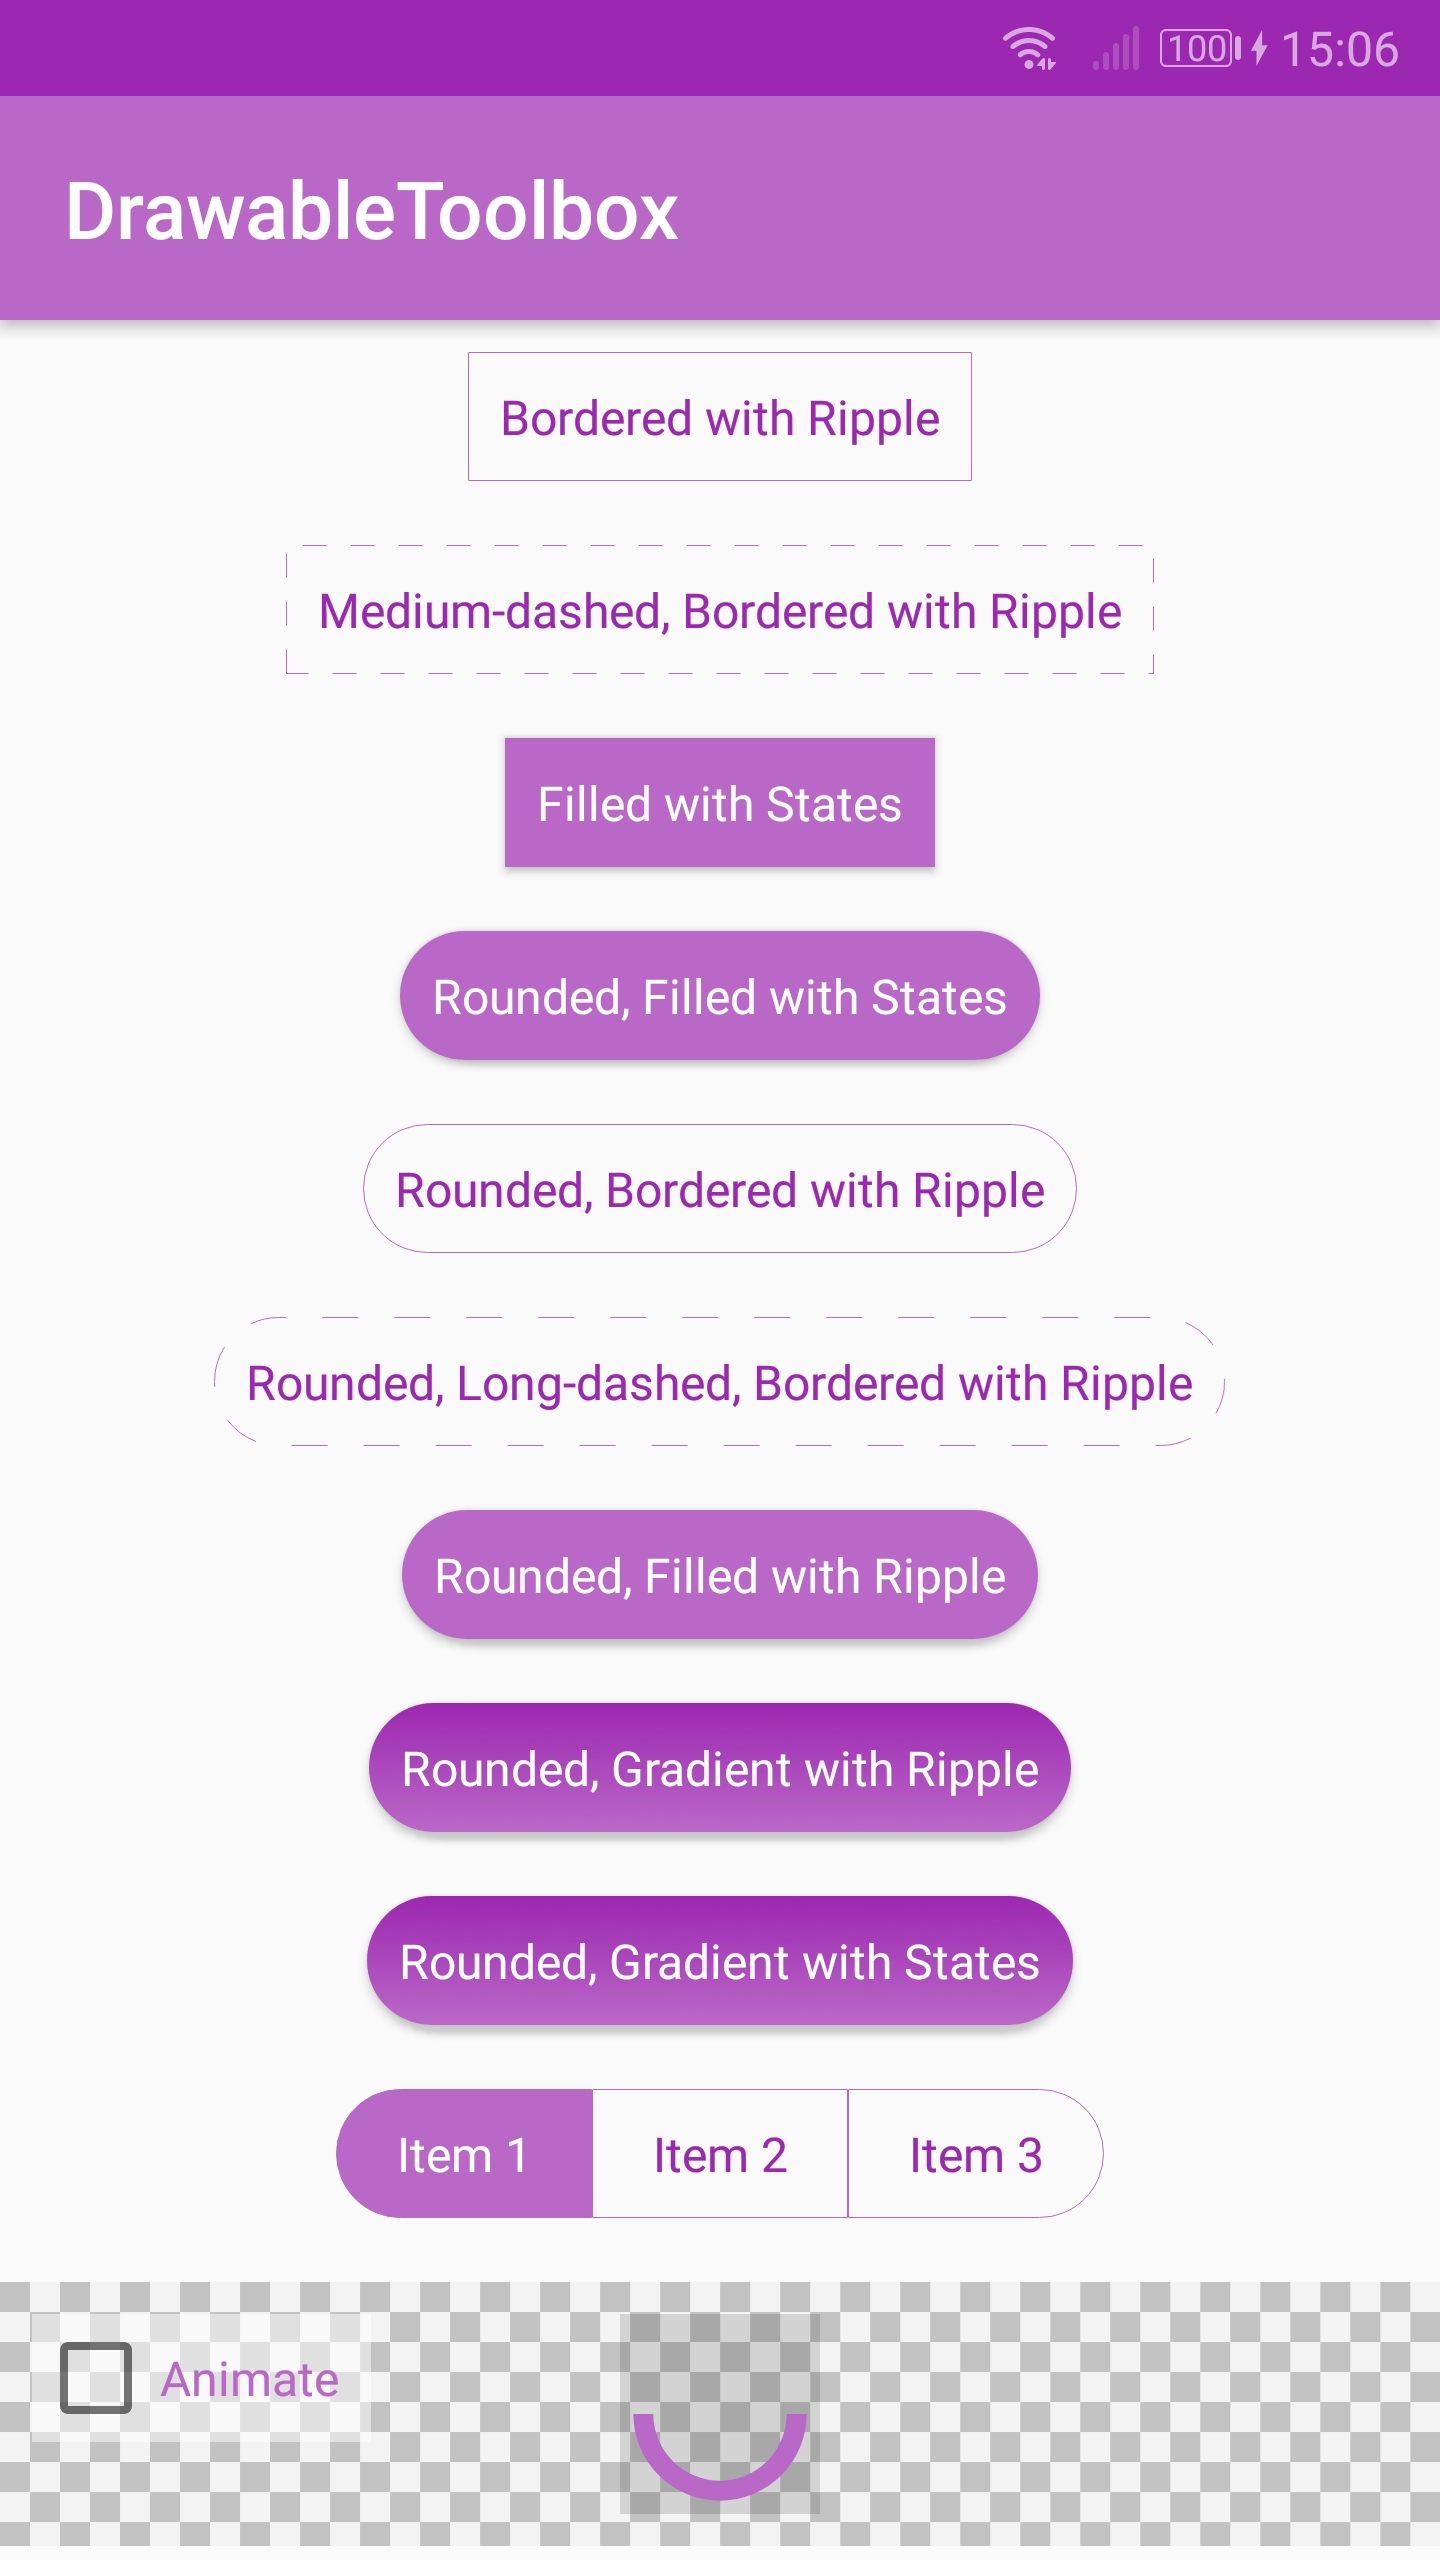
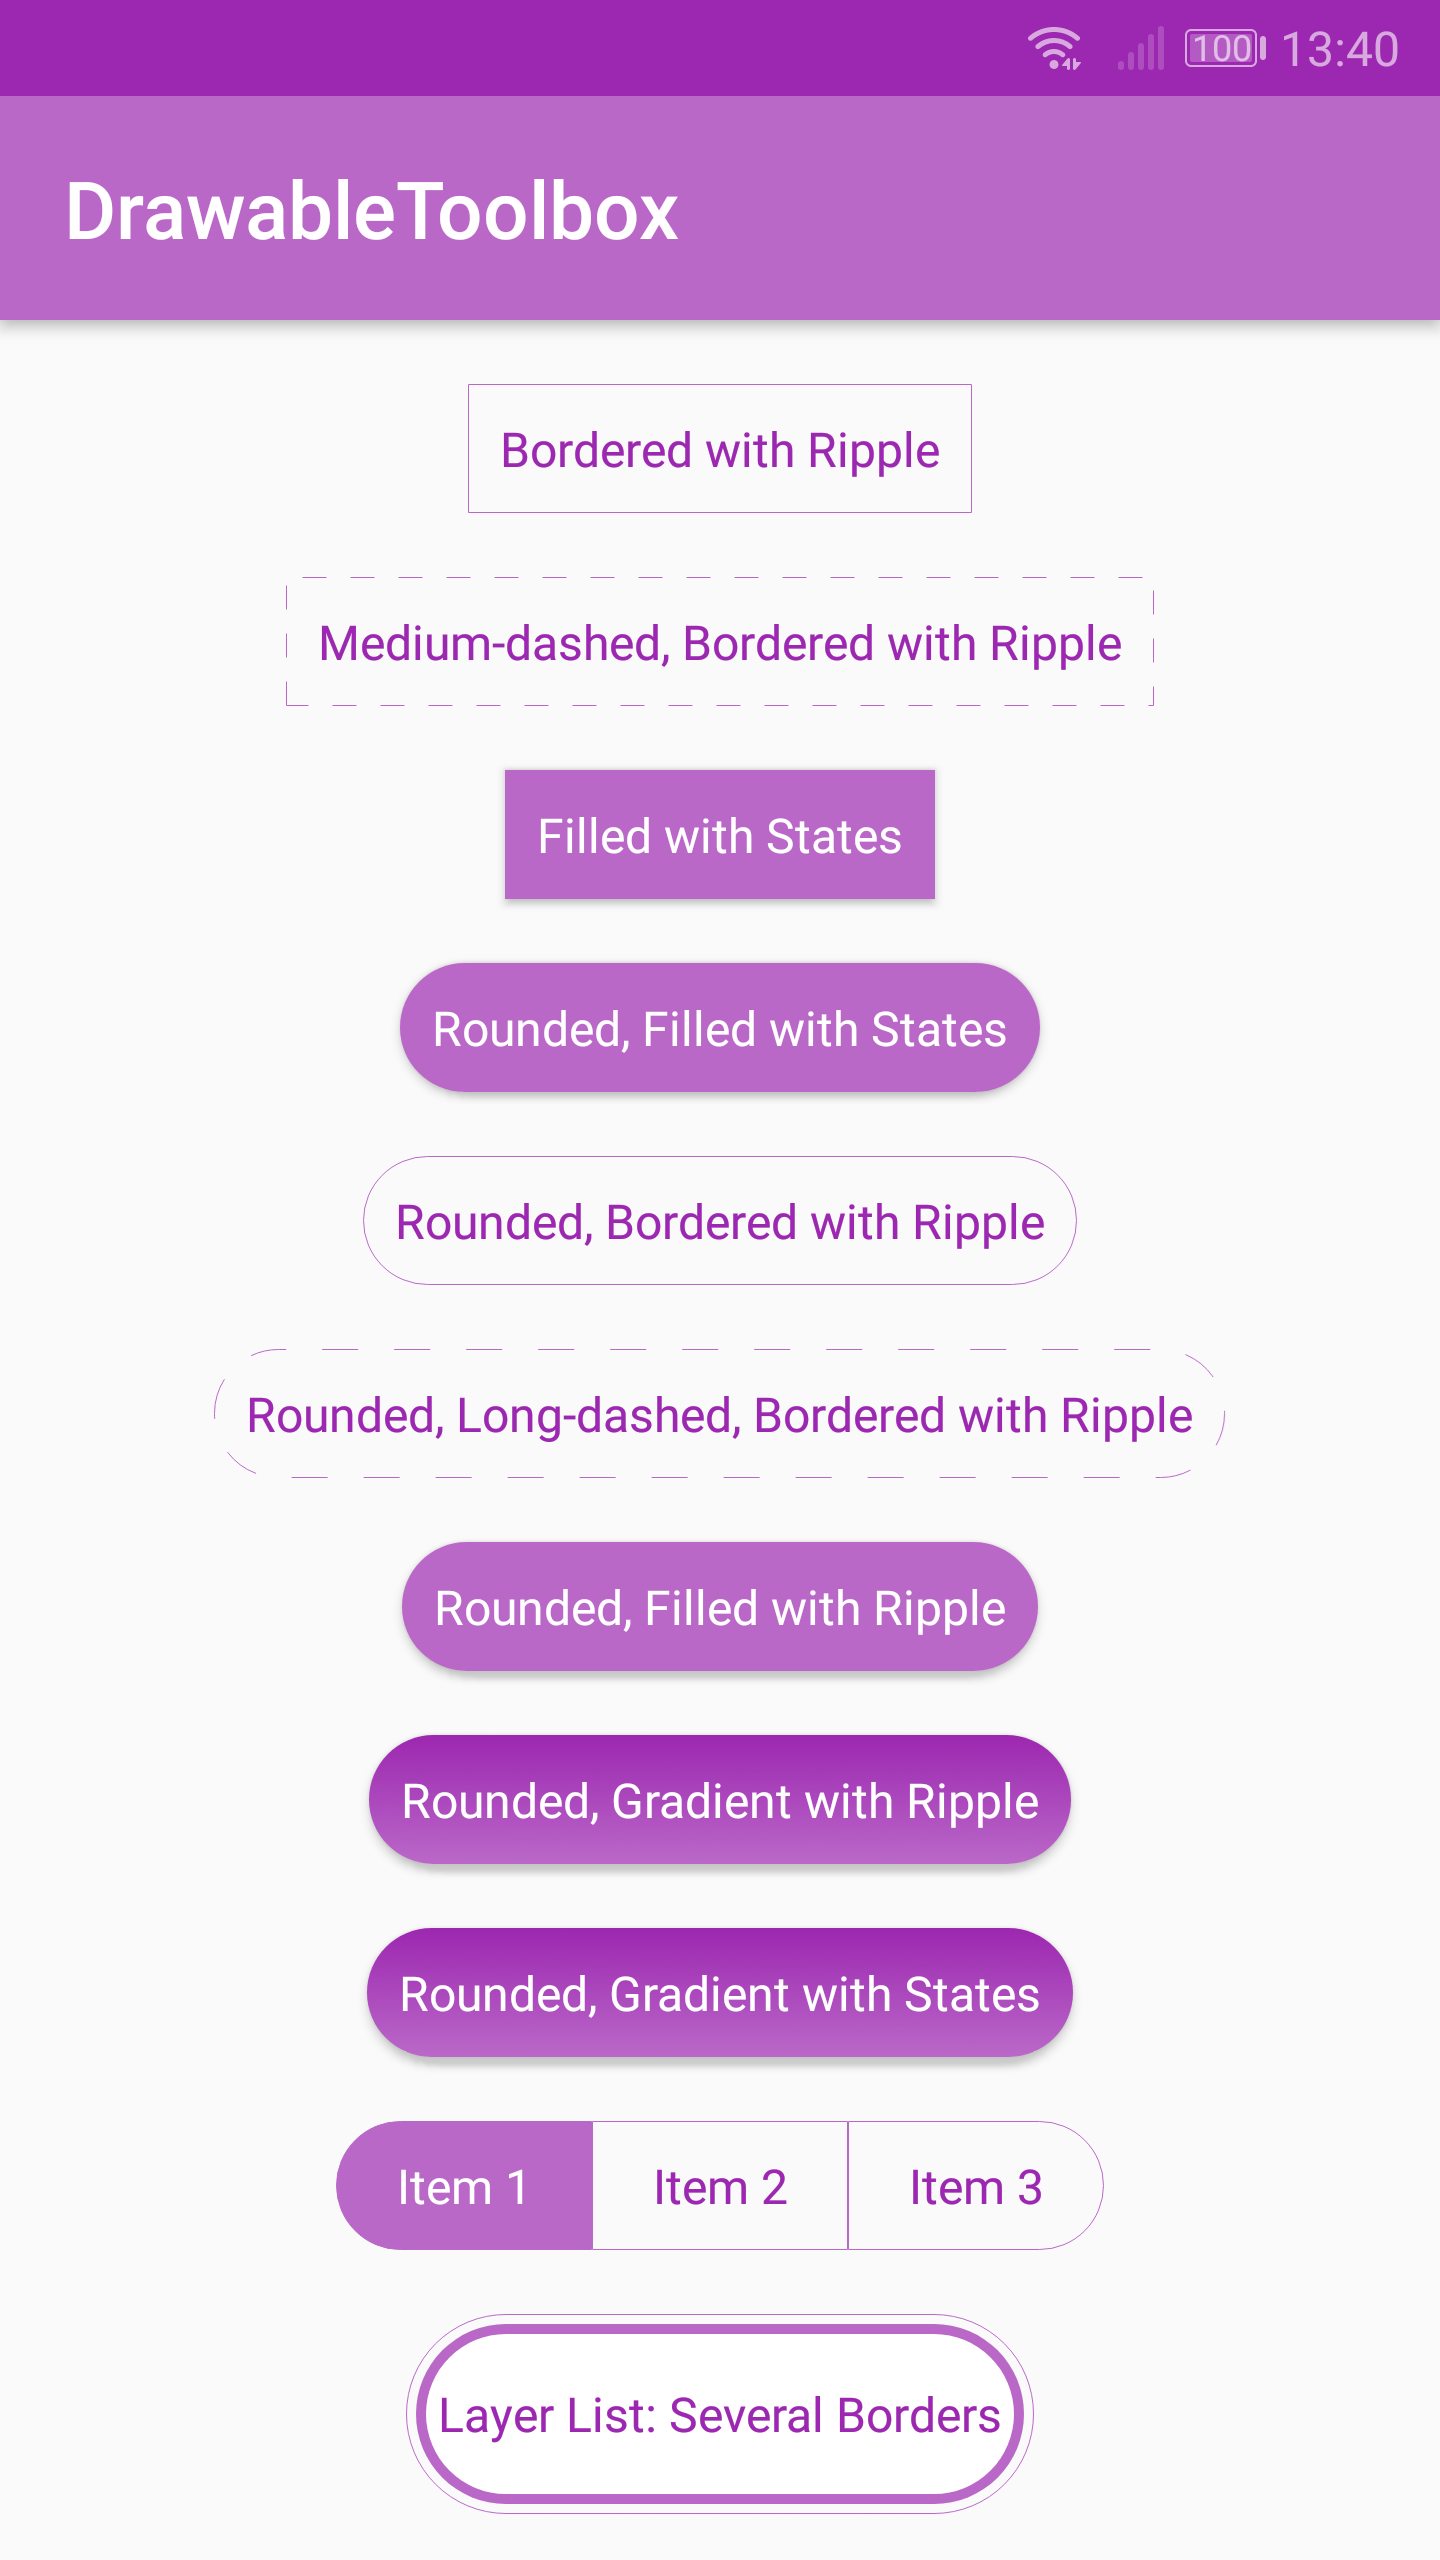
Update README

diff --git a/README.md b/README.md
@@ -14,12 +14,12 @@ The missing DrawableToolbox for Android. Get rid of the boring and always repeat
 ## Features
 
 * Create drawables programmatically
-* Support `<shape>`, `<rotate>`, `<scale>`, `<ripple>` drawables
+* Support `<shape>`, `<rotate>`, `<scale>`, `<ripple>`, `<layer-list>` drawables
+* Support 'flip' (vertical or horizontal)
 
-## Future works
+## Contribute
 
-* Support `LayerDrawable `(`<layer-list>`)
-* Please file an issue
+* Please file an [issue](https://github.com/duanhong169/DrawableToolbox/issues) or [pull request](https://github.com/duanhong169/DrawableToolbox/pulls) 
 
 ## Gradle
 
@@ -185,6 +185,89 @@ return when(type) {
 Result:
 
 ![Segmented Control](art/sample-10.png)
+
+Code:
+
+```kotlin
+val layer1 = DrawableBuilder()
+        .size(200)
+        .rectangle()
+        .rounded()
+        .hairlineBordered()
+        .strokeColor(COLOR_DEFAULT)
+        .strokeColorPressed(COLOR_PRESSED)
+        .build()
+val layer2 = DrawableBuilder()
+        .rectangle()
+        .rounded()
+        .solidColor(COLOR_DEFAULT)
+        .build()
+val layer3 = DrawableBuilder()
+        .rectangle()
+        .rounded()
+        .solidColor(Color.WHITE)
+        .ripple()
+        .rippleColor(COLOR_DEFAULT)
+        .build()
+LayerDrawableBuilder()
+        .add(layer1)
+        .add(layer2)
+        .inset(10)
+        .add(layer3)
+        .inset(20)
+        .build()
+```
+
+Result:
+
+![Layer List: Several Borders](art/sample-14.png)
+
+Code:
+
+```kotlin
+val layer1 = DrawableBuilder()
+        .size(180)
+        .rectangle()
+        .build()
+val layer2 = DrawableBuilder()
+        .oval()
+        .solidColor(COLOR_DEFAULT)
+        .build()
+val layer3 = DrawableBuilder()
+        .rectangle()
+        .solidColor(COLOR_DEFAULT_DARK)
+        .rotate(45f)
+        .build()
+val layer4 = DrawableBuilder()
+        .rectangle()
+        .bottomLeftRadius(100)
+        .solidColor(COLOR_DEFAULT_DARK)
+        .build()
+val layer5 = DrawableBuilder()
+        .oval()
+        .solidColor(COLOR_DEFAULT)
+        .build()
+val layerDrawable = LayerDrawableBuilder()
+        .add(layer1)
+        .add(layer2)
+        .inset(20, 20, 100, 100)
+        .add(layer3)
+        .inset(100, 20, 20, 100)
+        .add(layer4)
+        .inset(20, 100, 100, 20)
+        .add(layer5)
+        .inset(100, 100, 20, 20)
+        .build()
+DrawableBuilder()
+        .baseDrawable(layerDrawable)
+        .rotate(0f, 360f)
+        .build()
+```
+
+Result:
+
+![Showcase: Layer List 1](art/sample-15.png)
+
 
 Code:
 

diff --git a/README_cn.md b/README_cn.md
@@ -14,12 +14,11 @@
 ## 功能
 
 * 通过代码构建Drawable
-* 支持`<shape>`, `<rotate>`, `<scale>`, `<ripple>`等类型的drawable
-* 支持镜面翻转
+* 支持`<shape>`，`<rotate>`，`<scale>`，`<ripple>`，`<layer-list>`等类型的drawable
+* 支持镜面翻转（水平或垂直方向）
 
-## 即将支持
+## 参与本项目
 
-* `LayerDrawable `(`<layer-list>`)
 * 如果你有需要的功能，请提[Issue](https://github.com/duanhong169/DrawableToolbox/issues)或[Pull request](https://github.com/duanhong169/DrawableToolbox/pulls)
 
 ## Gradle
@@ -186,6 +185,88 @@ return when(type) {
 结果：
 
 ![Segmented Control](art/sample-10.png)
+
+代码：
+
+```kotlin
+val layer1 = DrawableBuilder()
+        .size(200)
+        .rectangle()
+        .rounded()
+        .hairlineBordered()
+        .strokeColor(COLOR_DEFAULT)
+        .strokeColorPressed(COLOR_PRESSED)
+        .build()
+val layer2 = DrawableBuilder()
+        .rectangle()
+        .rounded()
+        .solidColor(COLOR_DEFAULT)
+        .build()
+val layer3 = DrawableBuilder()
+        .rectangle()
+        .rounded()
+        .solidColor(Color.WHITE)
+        .ripple()
+        .rippleColor(COLOR_DEFAULT)
+        .build()
+LayerDrawableBuilder()
+        .add(layer1)
+        .add(layer2)
+        .inset(10)
+        .add(layer3)
+        .inset(20)
+        .build()
+```
+
+结果：
+
+![Layer List: Several Borders](art/sample-14.png)
+
+代码：
+
+```kotlin
+val layer1 = DrawableBuilder()
+        .size(180)
+        .rectangle()
+        .build()
+val layer2 = DrawableBuilder()
+        .oval()
+        .solidColor(COLOR_DEFAULT)
+        .build()
+val layer3 = DrawableBuilder()
+        .rectangle()
+        .solidColor(COLOR_DEFAULT_DARK)
+        .rotate(45f)
+        .build()
+val layer4 = DrawableBuilder()
+        .rectangle()
+        .bottomLeftRadius(100)
+        .solidColor(COLOR_DEFAULT_DARK)
+        .build()
+val layer5 = DrawableBuilder()
+        .oval()
+        .solidColor(COLOR_DEFAULT)
+        .build()
+val layerDrawable = LayerDrawableBuilder()
+        .add(layer1)
+        .add(layer2)
+        .inset(20, 20, 100, 100)
+        .add(layer3)
+        .inset(100, 20, 20, 100)
+        .add(layer4)
+        .inset(20, 100, 100, 20)
+        .add(layer5)
+        .inset(100, 100, 20, 20)
+        .build()
+DrawableBuilder()
+        .baseDrawable(layerDrawable)
+        .rotate(0f, 360f)
+        .build()
+```
+
+结果：
+
+![Showcase: Layer List 1](art/sample-15.png)
 
 代码：
 
